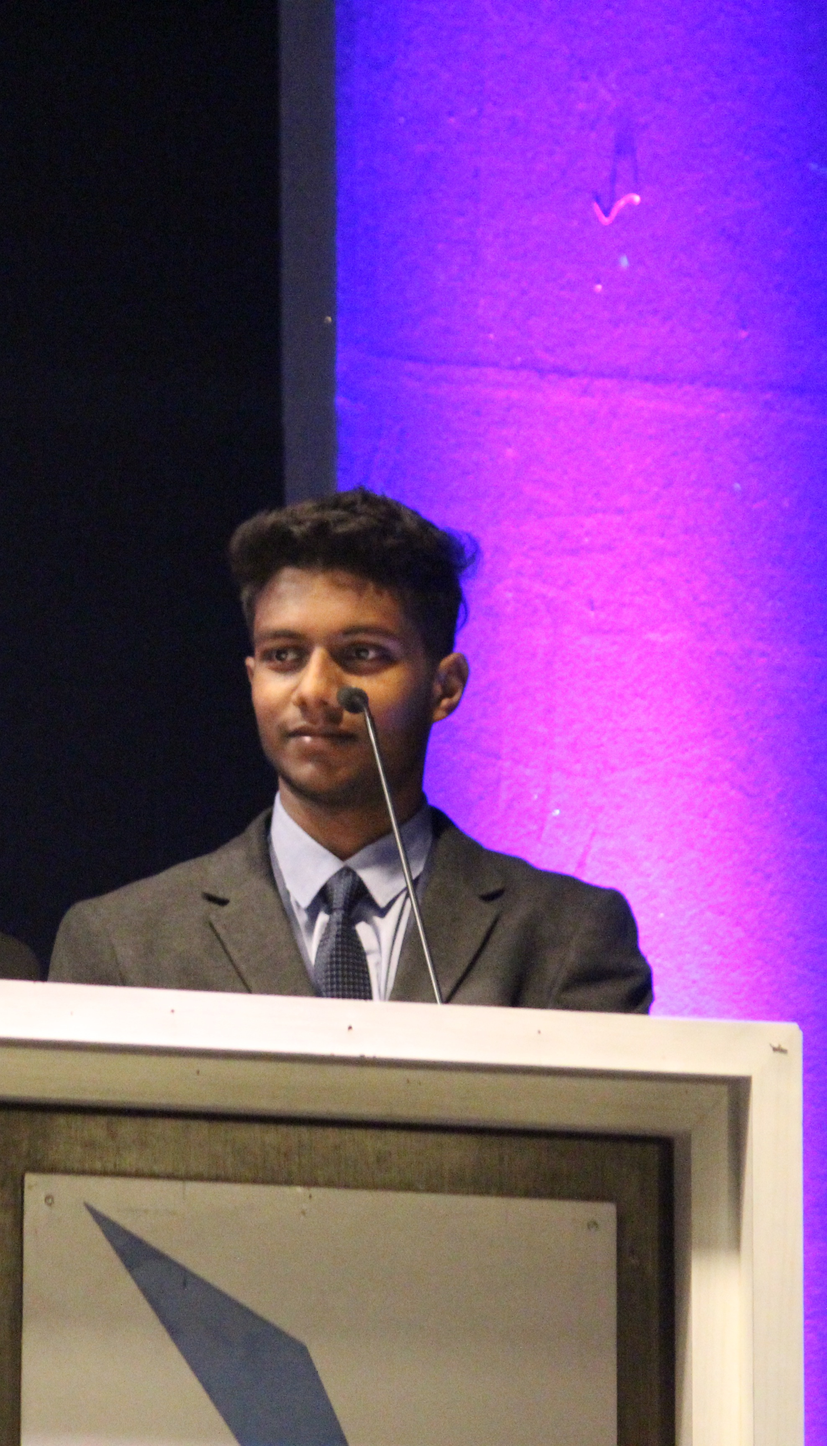
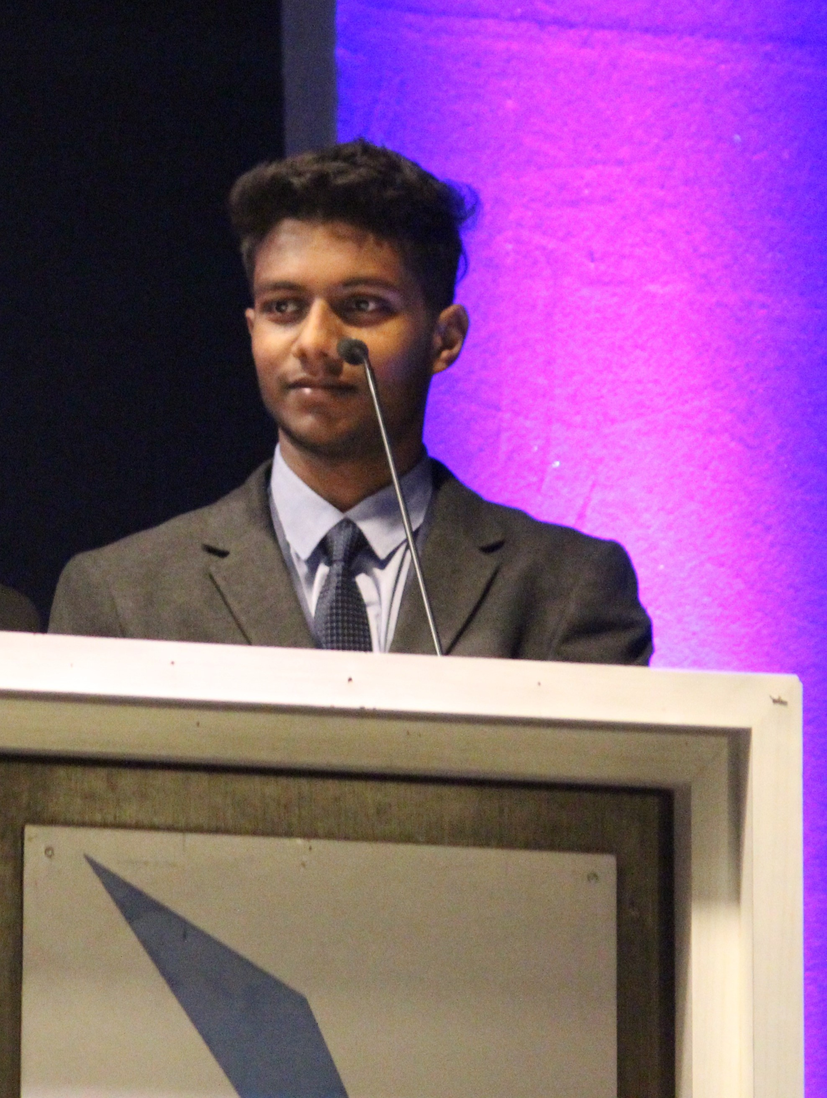
img fit issues :fix

diff --git a/aashray/src/components/common/page-componets/Team.jsx b/aashray/src/components/common/page-componets/Team.jsx
@@ -14,11 +14,13 @@ const Team = () => {
         <div className="grid grid-cols-1 gap-3 mt-8 sm:grid-cols-2 md:grid-cols-3 lg:grid-cols-4">
           {teamMembers.slice(0, 4).map(({ id, name, role, image, socials }) => (
             <div className="h-[250px] w-full mb-16 lg:mb-0" key={id}>
-              <img
-                src={image}
-                alt={name}
-                className="object-cover w-full h-full rounded-lg "
-              />
+              <div className="h-[250px] w-full overflow-hidden ">
+                <img
+                  src={image}
+                  alt={name}
+                  className=" w-full rounded-lg object-cover -mt-6 "
+                />
+              </div>
               <div className="relative z-10 w-4/5 p-2 mx-auto -mt-10 text-center bg-white rounded-lg shadow-md dark:bg-dark-light">
                 <h1 className="text-lg font-semibold">{name}</h1>
                 <p>{role}</p>

diff --git a/aashray/src/pages/Team.jsx b/aashray/src/pages/Team.jsx
@@ -7,11 +7,13 @@ const Team = () => {
       <div className="grid grid-cols-1 gap-3 mt-8 sm:grid-cols-2 md:grid-cols-3 lg:grid-cols-4">
         {teamMembers.map(({ id, name, role, image, socials }) => (
           <div className="h-[250px] w-full mb-16" key={id}>
-            <img
-              src={image}
-              alt={name}
-              className="object-cover w-full h-full rounded-lg"
-            />
+            <div className="h-[250px] w-full overflow-hidden ">
+              <img
+                src={image}
+                alt={name}
+                className=" w-full rounded-lg object-cover -mt-6 "
+              />
+            </div>
             <div className="relative z-10 w-4/5 p-2 mx-auto -mt-10 text-center bg-white rounded-lg shadow-md dark:bg-dark-light">
               <h1 className="text-lg font-semibold">{name}</h1>
               <p>{role}</p>

diff --git a/aashray/src/index.css b/aashray/src/index.css
@@ -160,6 +160,8 @@ a.active {
 
 .productCarousel.carousel-root .carousel {
   width: auto;
+  object-fit: cover;
+  object-position: bottom;
 }
 
 .productCarousel.carousel-root .carousel.carousel-slider {
@@ -186,7 +188,7 @@ a.active {
   width: 100%;
   height: 100%;
   object-fit: cover;
-  object-position: center;
+  object-position: bottom;
 }
 
 .productCarousel.carousel-root .carousel .thumb:after {
@@ -198,6 +200,13 @@ a.active {
   left: 0;
   background-color: black;
   opacity: 0;
+}
+.slide img {
+  width: 100%;
+  height: 100%;
+  vertical-align: bottom;
+  object-fit: cover !important ;
+  margin-top: -300px;
 }
 
 .productCarousel.carousel-root .carousel .thumb.selected,

diff --git a/aashray/src/data/data.js b/aashray/src/data/data.js
@@ -137,7 +137,7 @@ export const teamMembers = [
     },
     {
         id: 7,
-        name: "Dhiraj Khivasra",
+        name: "Dhiraj Khivasra",
         role: "Founding Members",
         image: "/images/team/dhiraj.jpg",
         socials: []
